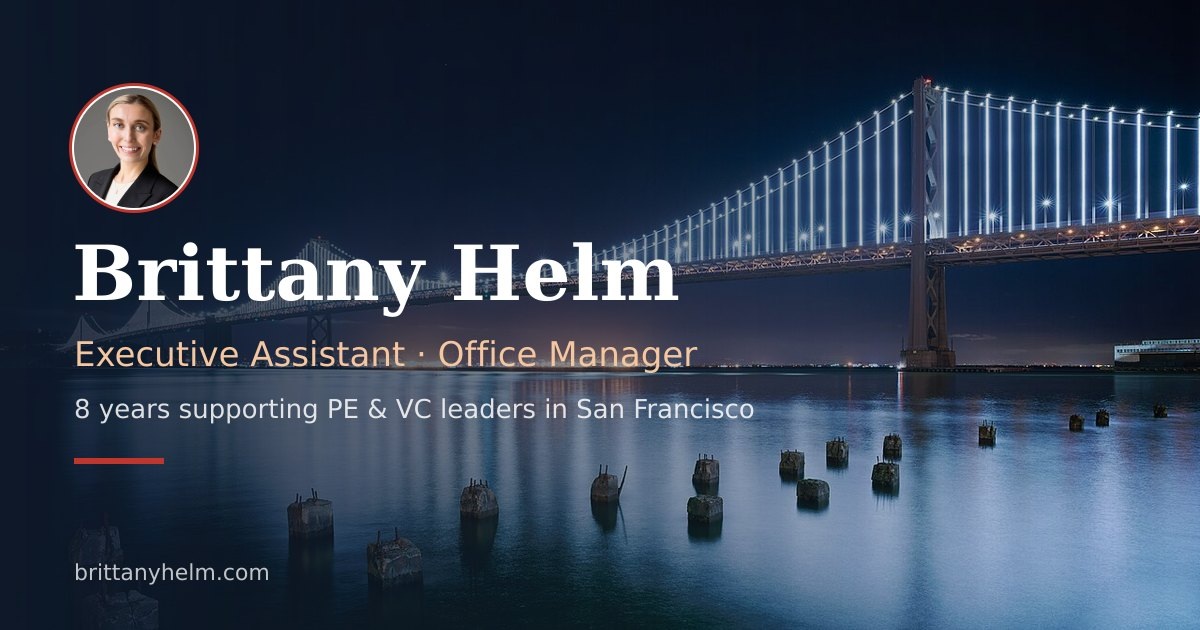
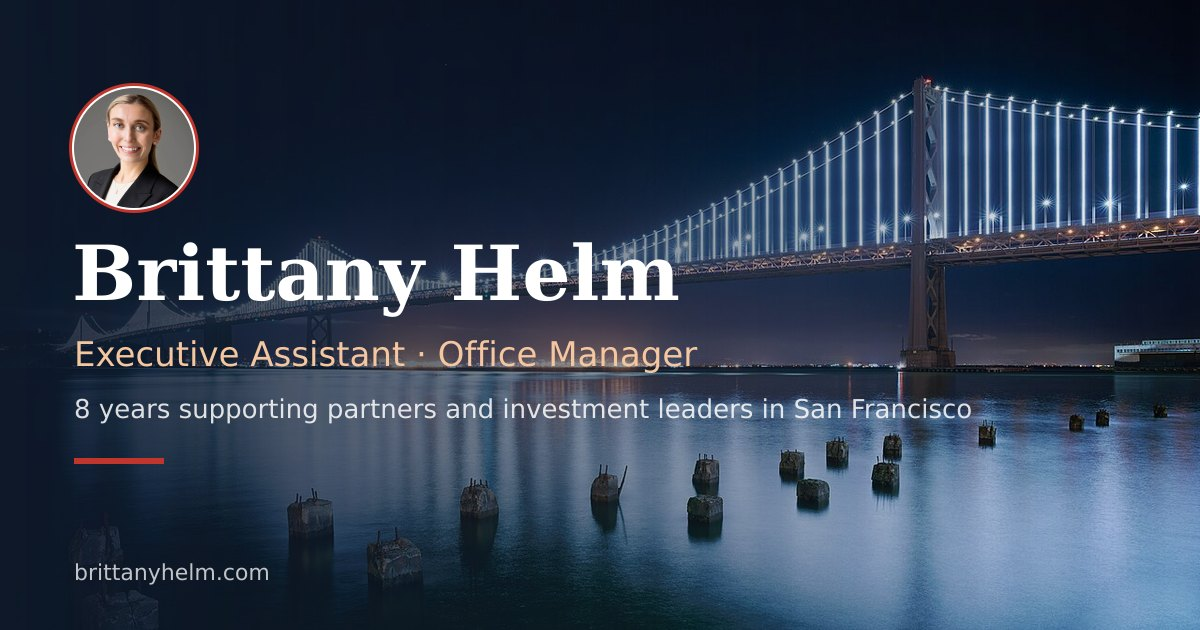
Remove venture capital positioning from site copy
- Hero, About intro, meta description and share image now say
  'partners and investment leaders, most recently in private equity'
- Swap the Owl Ventures fundraise stat for the 10-person office at CVC
- Owl Ventures stays in the work history as a company name

Claude-Session: https://claude.ai/code/session_01MBkUneGQ1Khq48mGjsU5PW

Changed region(s): [[0.2775, 0.6333, 0.8017, 0.6635]]

diff --git a/src/resume.ts b/src/resume.ts
@@ -12,12 +12,12 @@ export const PROFILE = {
 	headshotSmall: '/photos/headshot-square-320.webp',
 	portrait: '/photos/headshot-portrait-720.webp',
 	summary:
-		'Executive Assistant with 8 years of experience supporting partners and senior investment leaders at private equity and venture capital firms in San Francisco. Skilled in complex calendar management, international travel, investor relations and office operations, with a reputation for sound judgment, discretion and anticipating executive needs.',
+		'Executive Assistant with 8 years of experience supporting partners and senior investment leaders most recently at private equity firms in San Francisco. Skilled in complex calendar management, international travel, investor relations and office operations, with a reputation for sound judgment, discretion and anticipating executive needs.',
 };
 
 export const STATS = [
-	{ value: '8 years', label: 'supporting partners at PE and VC firms' },
-	{ value: '$1B+', label: 'fundraise I helped support at Owl Ventures' },
+	{ value: '8 years', label: 'supporting partners and investment leaders' },
+	{ value: '10-person', label: 'office I ran on my own at CVC' },
 	{ value: '6', label: 'investment leaders I supported at once at CVC' },
 	{ value: '3× a week', label: 'partner calendars checked by a workflow I built' },
 ];

diff --git a/src/consts.ts b/src/consts.ts
@@ -3,4 +3,4 @@
 
 export const SITE_TITLE = "Brittany Helm";
 export const SITE_DESCRIPTION =
-	"Brittany Helm: Executive Assistant and Office Manager in San Francisco with 8 years supporting private equity and venture capital partners.";
+	"Brittany Helm: Executive Assistant and Office Manager in San Francisco with 8 years supporting partners and senior investment leaders, most recently in private equity.";
